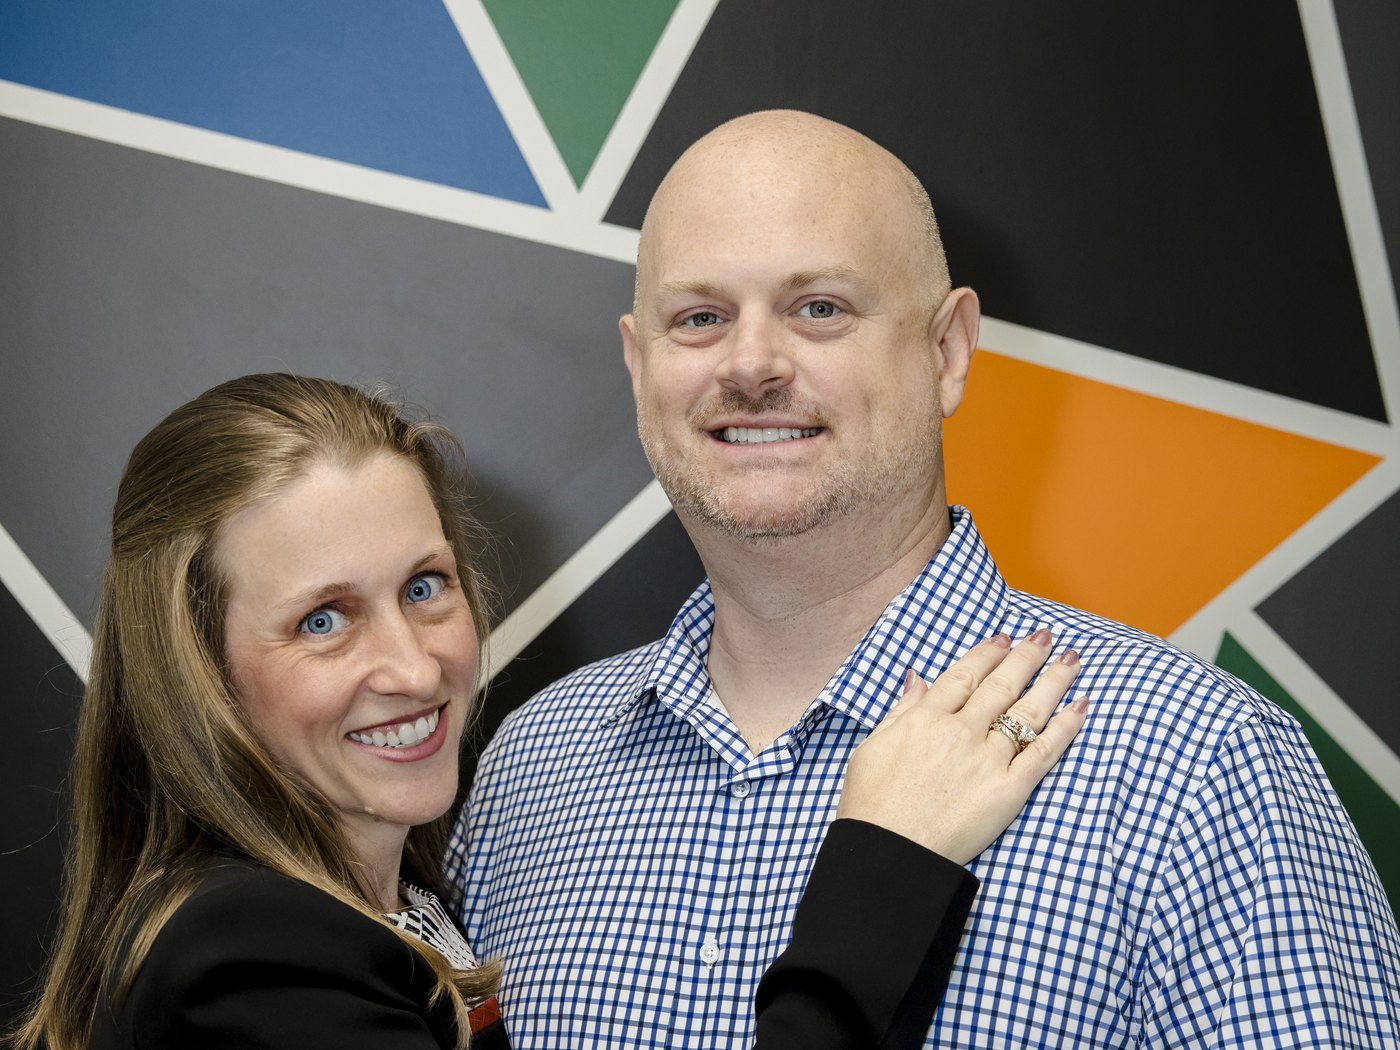
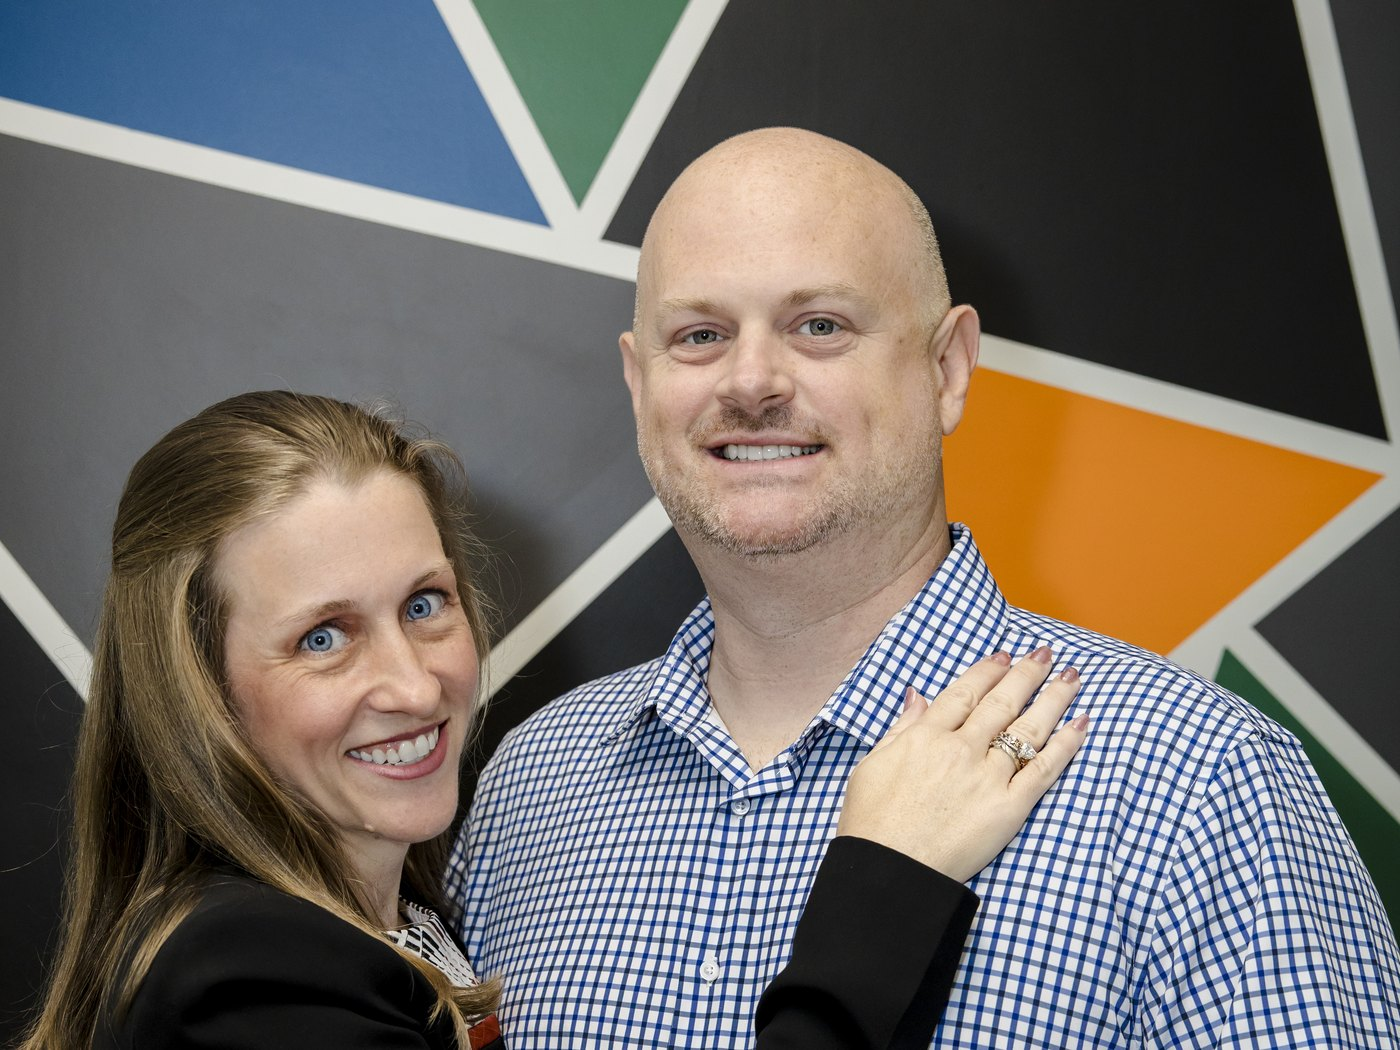
Story band: zoom out crop to keep shoulders, full-white text on darker panel

diff --git a/assets/css/styles.css b/assets/css/styles.css
@@ -92,11 +92,11 @@ body.has-hero-overlay .site-header:not(.is-scrolled) .nav-cta:hover{background:r
 body.has-hero-overlay .site-header .site-logo{transition:filter .3s ease}
 body.has-hero-overlay .site-header:not(.is-scrolled) .site-logo{filter:brightness(0) invert(1)}
 /* === Overlay band (photo left, text overlaid right) === */
-.overlay-band{position:relative;background:#2b2d30;color:#fff;overflow:hidden}
-.overlay-band-img{position:absolute;top:0;left:0;height:100%;width:58%;object-fit:cover;object-position:center 25%;display:block}
-.overlay-band-fade{position:absolute;inset:0;background:linear-gradient(to right,rgba(43,45,48,0) 30%,rgba(43,45,48,.6) 46%,#2b2d30 58%);pointer-events:none}
+.overlay-band{position:relative;background:#232528;color:#fff;overflow:hidden;display:flex;flex-direction:column;justify-content:center;min-height:clamp(540px,44vw,720px)}
+.overlay-band-img{position:absolute;top:0;left:0;height:100%;width:58%;object-fit:cover;object-position:center 30%;display:block}
+.overlay-band-fade{position:absolute;inset:0;background:linear-gradient(to right,rgba(35,37,40,0) 28%,rgba(35,37,40,.72) 45%,#232528 56%);pointer-events:none}
 .overlay-band-content{position:relative;margin-left:55%;max-width:620px;padding:clamp(2.75rem,6vw,5rem) clamp(1.5rem,4vw,3rem) clamp(2.75rem,6vw,5rem) 0}
 .overlay-band-content .eyebrow{color:var(--pink)}
 .overlay-band-content h2{color:#fff;font-size:clamp(1.7rem,3vw,2.5rem);line-height:1.15;margin:.85rem 0 1rem}
-.overlay-band-content p,.overlay-band-content .cred-list li{color:rgba(255,255,255,.92)}
-@media (max-width:820px){.overlay-band-img{position:static;width:100%;height:auto;aspect-ratio:4/3}.overlay-band-fade{background:linear-gradient(to bottom,rgba(43,45,48,0) 55%,#2b2d30 92%)}.overlay-band-content{margin:0;max-width:none;padding:1.5rem 1.25rem 2.25rem}}
+.overlay-band-content p,.overlay-band-content .cred-list li{color:#fff;font-size:1.02rem;line-height:1.65}
+@media (max-width:820px){.overlay-band{min-height:0}.overlay-band-img{position:static;width:100%;height:auto;aspect-ratio:4/3}.overlay-band-fade{background:linear-gradient(to bottom,rgba(35,37,40,0) 55%,#232528 92%)}.overlay-band-content{margin:0;max-width:none;padding:1.5rem 1.25rem 2.25rem}}

diff --git a/about.html b/about.html
@@ -202,8 +202,8 @@
       <div class="overlay-band-content">
           <span class="eyebrow">Our Story</span>
           <h2>A Family-Run Firm</h2>
-          <p style="color:var(--text-muted); margin-top:1rem;">After 13 years working in the accounting world, I decided to venture out and take the knowledge I had gained over the years to truly help people and companies understand their sticky situations.</p>
-          <p style="color:var(--text-muted);">I love taking those messy sandwiches and turning them into an enjoyable feast everyone has come to love. The name PB&amp;J comes from my three wonderful children - and yes I am as OCD as the name implies.</p>
+          <p>After 13 years working in the accounting world, I decided to venture out and take the knowledge I had gained over the years to truly help people and companies understand their sticky situations.</p>
+          <p>I love taking those messy sandwiches and turning them into an enjoyable feast everyone has come to love. The name PB&amp;J comes from my three wonderful children - and yes I am as OCD as the name implies.</p>
           <ul class="cred-list" aria-label="Brittany's credentials and experience">
             <li><span class="cred-dot" aria-hidden="true"></span>13+ years of professional accounting experience</li>
             <li><span class="cred-dot" aria-hidden="true"></span>Founded PB&amp;J Strategic Accounting in 2025</li>